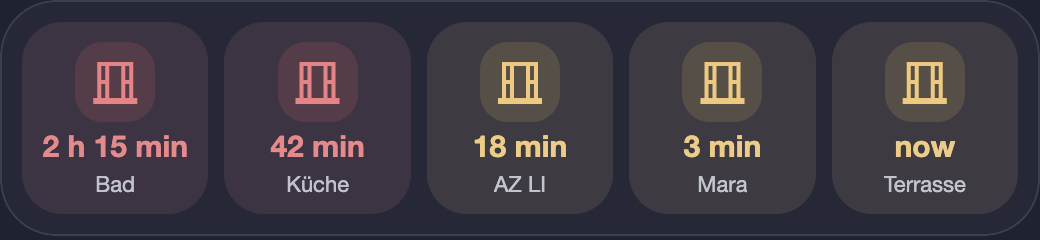
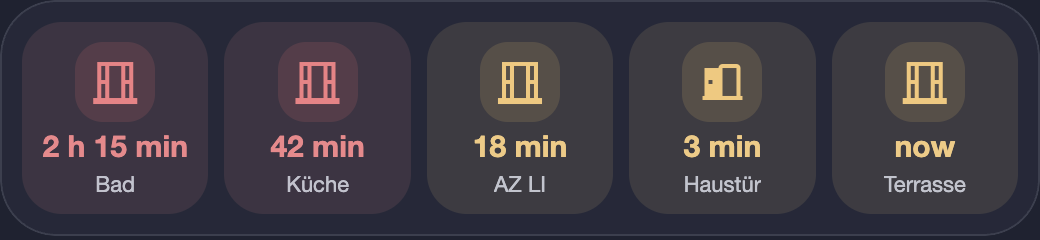
Open windows card: windows and doors by default

Changed region(s): [[0.6462, 0.7292, 0.7385, 0.8167], [0.6769, 0.2333, 0.7385, 0.4375]]

diff --git a/ha-m3-slim-open-windows/m3-slim-open-windows-card.js b/ha-m3-slim-open-windows/m3-slim-open-windows-card.js
@@ -1,7 +1,7 @@
 // M3 Slim Open Windows Card: the open windows in one row, longest open first.
 // Each slot shows an icon, how long it has been open and the name; yellow while
-// open, red once open longer than `alert_after` minutes. Windows are found by
-// device_class (window by default), or listed explicitly.
+// open, red once open longer than `alert_after` minutes. Windows and doors are
+// found by device_class, or listed explicitly.
 
 const YELLOW = "#f0c46e";
 const RED = "#e57373";
@@ -9,11 +9,11 @@ const GREEN = "#81c784";
 const ICONS = { door: "mdi:door-open", garage_door: "mdi:garage-open", opening: "mdi:square-rounded-outline" };
 const WINDOW_ICON = "mdi:window-open-variant";
 // words dropped from names: vendors and what the sensor is ("Shelly Fensterkontakt Bad Window" → "Bad")
-const NOISE = /\b(shelly|aqara|xiaomi|hue|ikea|tuya|sonoff|homematic|eve|fensterkontakte?|fenster|window|kontakt|contact|sensor|opening)\b/gi;
+const NOISE = /\b(shelly|aqara|xiaomi|hue|ikea|tuya|sonoff|homematic|eve|fensterkontakte?|fenster|window|door|kontakt|contact|sensor|opening)\b/gi;
 
 const STRINGS = {
-  en: { closed: "All windows closed", now: "now", day: "d" },
-  de: { closed: "Alle Fenster geschlossen", now: "gerade", day: "T" },
+  en: { closed: "All windows and doors closed", now: "now", day: "d" },
+  de: { closed: "Alle Fenster und Türen geschlossen", now: "gerade", day: "T" },
 };
 
 const esc = (s) => String(s).replace(/[&<>"]/g, (c) => ({ "&": "&amp;", "<": "&lt;", ">": "&gt;", '"': "&quot;" })[c]);
@@ -110,7 +110,7 @@ class M3SlimOpenWindowsCard extends HTMLElement {
 
   _open() {
     const states = this._hass.states;
-    const classes = this._config.device_classes?.length ? this._config.device_classes : ["window"];
+    const classes = this._config.device_classes?.length ? this._config.device_classes : ["window", "door"];
     const exclude = (this._config.exclude ?? []).map(matcher);
     const ids = this._config.entities?.length
       ? this._config.entities
@@ -174,7 +174,7 @@ class M3SlimOpenWindowsCardEditor extends HTMLElement {
       this._form.computeLabel = (s) => ({
         alert_after: "Red after (minutes open)",
         count: "Windows in the row",
-        device_classes: "Sensor types (default: window)",
+        device_classes: "Sensor types (default: window, door)",
         entities: "Only these sensors (empty: all of the types above)",
         exclude: "Never show",
         exclude_patterns: "Never show, by pattern (* is a wildcard: binary_sensor.garage_*, *_tuer_*)",
@@ -224,6 +224,6 @@ window.customCards = window.customCards || [];
 window.customCards.push({
   type: "m3-slim-open-windows-card",
   name: "M3 Slim Open Windows Card",
-  description: "Material 3 row of open windows: name and how long each has been open",
+  description: "Material 3 row of open windows and doors: name and how long each has been open",
   preview: true,
 });

diff --git a/ha-m3-slim-open-windows/preview.html b/ha-m3-slim-open-windows/preview.html
@@ -11,7 +11,7 @@
   body.shot h4, body.shot section:not(:first-child) { display: none; }
 </style>
 <div class="col">
-  <section><h4>Default: window sensors, red after 30 min</h4><m3-slim-open-windows-card id="a"></m3-slim-open-windows-card></section>
+  <section><h4>Default: windows and doors, red after 30 min</h4><m3-slim-open-windows-card id="a"></m3-slim-open-windows-card></section>
   <section><h4>Two open, German</h4><m3-slim-open-windows-card id="b"></m3-slim-open-windows-card></section>
   <section><h4>Everything closed</h4><m3-slim-open-windows-card id="c"></m3-slim-open-windows-card></section>
 </div>
@@ -34,16 +34,16 @@
 <script>
   const devices = {}, entities = {};
   const ago = (min) => new Date(Date.now() - min * 60000).toISOString();
-  const win = (id, device, open, minutes = 0) => {
+  const win = (id, device, open, minutes = 0, cls = "window") => {
     devices[id] = { name: device }; entities[`binary_sensor.${id}`] = { device_id: id };
     return [`binary_sensor.${id}`, { entity_id: `binary_sensor.${id}`, state: open ? "on" : "off", last_changed: ago(minutes),
-      attributes: { friendly_name: "Window", device_class: "window" } }];
+      attributes: { friendly_name: cls === "door" ? "Door" : "Window", device_class: cls } }];
   };
   const all = Object.fromEntries([
     win("bad", "Shelly Fensterkontakt Bad", true, 135),
     win("kueche", "Shelly Fensterkontakt Küche", true, 42),
     win("az_li", "Shelly Fensterkontakt AZ LI", true, 18),
-    win("mara", "Shelly Fensterkontakt Mara", true, 3),
+    win("haustuer", "Haustür", true, 3, "door"),
     win("terrasse", "Shelly Fensterkontakt Terrasse", true, 0),
     win("toilette", "Shelly Fensterkontakt Toilette", false),
   ]);
@@ -51,6 +51,6 @@
   const pick = (...ids) => Object.fromEntries(ids.map((id) => [id, all[id]]));
   const mount = (id, config, h) => { const el = document.getElementById(id); el.setConfig(config); el.hass = h; };
   mount("a", {}, hass(all));
-  mount("b", {}, hass(pick("binary_sensor.kueche", "binary_sensor.mara", "binary_sensor.toilette"), "de"));
+  mount("b", {}, hass(pick("binary_sensor.kueche", "binary_sensor.haustuer", "binary_sensor.toilette"), "de"));
   mount("c", {}, hass(pick("binary_sensor.toilette")));
 </script>

diff --git a/ha-m3-slim-open-windows/README.md b/ha-m3-slim-open-windows/README.md
@@ -1,6 +1,6 @@
 # M3 Slim Open Windows Card
 
-The open windows in one row, longest open first, in the Material 3 look of
+The open windows and doors in one row, longest open first, in the Material 3 look of
 [j0sp0r/m3-cards](https://github.com/j0sp0r/m3-cards).
 
 <img src="docs/card.png" alt="M3 Slim Open Windows Card" width="55%">
@@ -8,14 +8,14 @@ The open windows in one row, longest open first, in the Material 3 look of
 - **One row**: up to `count` open windows. Each shows an icon, how long it
   has been open ("now", "18 min", "2 h 15 min", "3 d 4 h") and the name.
 - **Colours**: yellow while open, red once open for `alert_after` minutes.
-- **Discovery**: every `binary_sensor.*` with device class window, or the
-  classes in `device_classes` (window, door, garage_door, opening), or only
-  the sensors in `entities`.
+- **Discovery**: every `binary_sensor.*` with device class window or door, or
+  the classes in `device_classes` (window, door, garage_door, opening), or
+  only the sensors in `entities`.
 - **Names**: the device's name without vendor and sensor words ("Shelly
   Fensterkontakt Bad" → "Bad"; Shelly, Aqara, Xiaomi, Hue, IKEA, Tuya,
-  Sonoff, Homematic, Eve, Fenster, Fensterkontakt, Window, Kontakt, Contact,
-  Sensor, Opening) and without a bracketed part at the end.
-- **All closed**: one line "All windows closed", or the card hides itself
+  Sonoff, Homematic, Eve, Fenster, Fensterkontakt, Window, Door, Kontakt,
+  Contact, Sensor, Opening) and without a bracketed part at the end.
+- **All closed**: one line "All windows and doors closed", or the card hides itself
   with `hide_when_ok: true`.
 - Tap a window for its details. Durations update every 30 seconds. Visual
   editor; English and German.
@@ -31,7 +31,7 @@ once, all cards come with it.
 type: custom:m3-slim-open-windows-card
 alert_after: 30
 count: 5
-device_classes: [window, door]
+device_classes: [window, door, garage_door]
 exclude:
   - binary_sensor.garage_*     # * matches any characters
 ```
@@ -40,10 +40,10 @@ exclude:
 |---|---|---|
 | `alert_after` | `30` | Red once open this many minutes |
 | `count` | `5` | Most windows in the row |
-| `device_classes` | `[window]` | Sensor types to look for |
+| `device_classes` | `[window, door]` | Sensor types to look for |
 | `entities` | all | Only these binary sensors |
 | `exclude` | none | Sensors never shown. `*` is a wildcard; a pattern without a domain matches the part after `binary_sensor.`. The visual editor has a separate field for patterns |
-| `closed_text` | "All windows closed" | Text when nothing is open |
+| `closed_text` | "All windows and doors closed" | Text when nothing is open |
 | `hide_when_ok` | `false` | Hide the card when nothing is open |
 
 `preview.html` shows the card with made-up windows

diff --git a/README.md b/README.md
@@ -176,16 +176,16 @@ All options: [`ha-m3-slim-battery-card/README.md`](ha-m3-slim-battery-card/READM
 
 ## M3 Slim Open Windows Card
 
-The open windows in one row, with how long each has been open.
+The open windows and doors in one row, with how long each has been open.
 
 ![Open windows card](ha-m3-slim-open-windows/docs/card.png)
 
-- Up to five windows (configurable), longest open first: icon, time open
+- Up to five (configurable), longest open first: icon, time open
   and name.
 - Yellow while open, red after `alert_after` minutes (30).
-- Finds window sensors by device class (doors and garage doors optional);
+- Finds window and door sensors by device class (garage doors optional);
   names come from the device without vendor and "Fensterkontakt"/"Window".
-- Everything closed: one line "All windows closed", or `hide_when_ok: true`.
+- Everything closed: one line "All windows and doors closed", or `hide_when_ok: true`.
 
 ```yaml
 type: custom:m3-slim-open-windows-card
